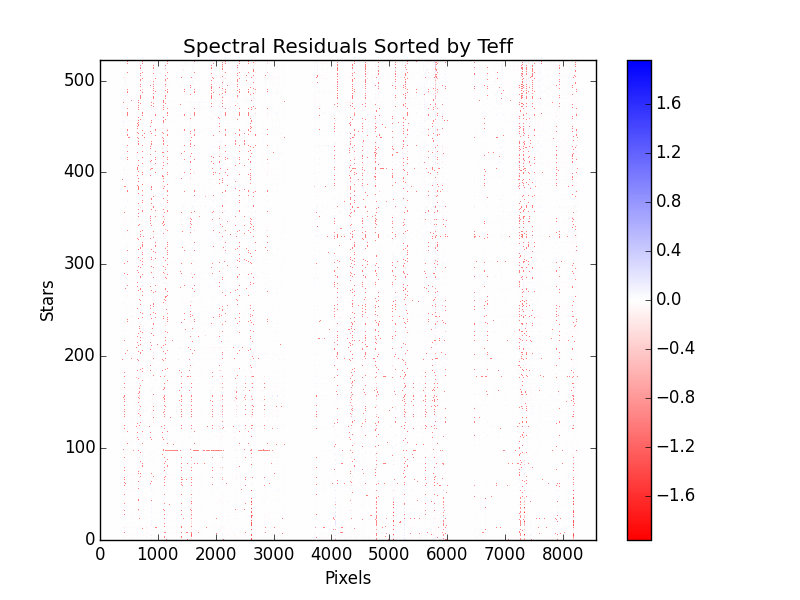
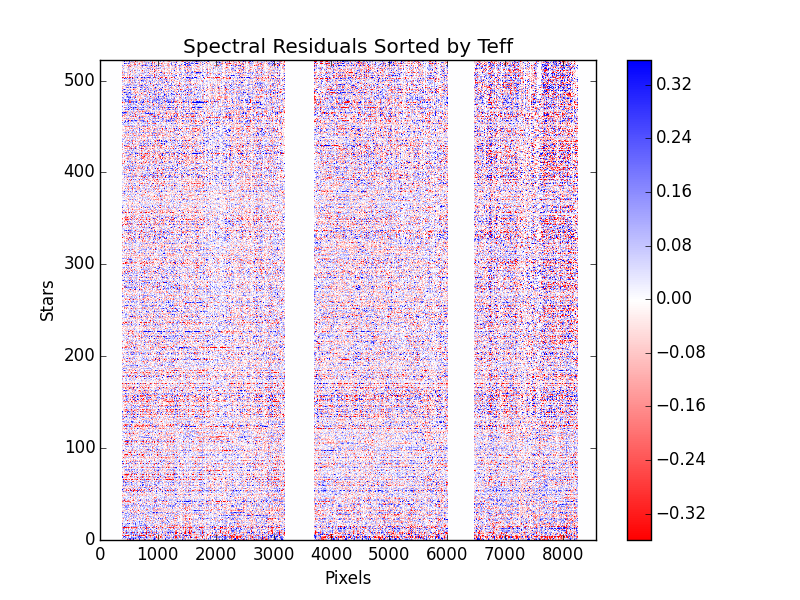
fixed residual heat map - normalized now

diff --git a/Code/Sphinx/_build/html/searchindex.js b/Code/Sphinx/_build/html/searchindex.js
@@ -1,1 +1,1 @@
-Search.setIndex({envversion:42,terms:{all:0,consider:0,spectrumfit:0,follow:0,row:0,fluxerr:[],accur:0,depend:0,under:0,sourc:[],everi:0,string:0,calib:0,govern:0,veri:[],modeltyp:[],list:0,item:[],overlaid:0,read_label:[],zero:[],append:0,spectral:[],index:[],compar:0,section:0,brief:0,version:0,method:[],gener:[],coeffici:0,len:0,let:0,along:0,valu:0,search:[],survei:0,label_v:0,precis:0,pick:[],nstar:[],dtype:0,modul:[],filenam:0,txt:0,select:0,plot:0,fed:[],from:[],describ:0,would:0,chi:0,two:0,coverag:0,few:[],call:0,type:[],more:0,sort:0,loadtxt:0,desir:0,cannon_spectra:[],apoge:[],flag:0,train:[],examin:0,particular:[],known:0,hold:0,unpack:0,must:0,none:[],retriev:0,err:[],vesta_trainingset:[],prepar:[],work:[],remain:0,can:0,objectid:[],process:0,high:0,critic:0,want:[],multipl:[],divid:[],globular:0,write:[],how:0,annaho:0,updat:0,snr:0,mai:[],varianc:[],associ:0,physic:0,spectra:[],correspond:0,element:0,inform:0,cluster_trainingset:[],first:0,ordinarili:0,help:[],over:0,through:0,flexibl:0,paramet:0,fit:[],vast:0,comprehens:0,therefor:[],might:[],pixel:0,"float":0,"return":0,initi:0,"break":0,now:0,cannonlabel:[],name:0,continuum_norm:[],each:0,found:0,subset:0,logg:0,expect:[],our:0,happen:0,extract:[],out:0,simplic:0,shown:[],space:0,open:0,content:[],label_nam:0,print:0,correct:0,workflow:[],logg_cut:0,standard:[],reason:0,put:0,her:[],keep:0,thing:0,length:[],dr10:0,outsid:0,principl:[],lambda:0,softwar:[],rang:0,render:[],onc:0,arrai:[],qualiti:0,all_label_nam:0,test_set_diagnost:[],alreadi:[],choose_label:[],label_vector:[],size:[],given:0,necessarili:[],"final":0,option:0,specifi:[],herself:[],kind:[],provid:0,remov:0,second:0,structur:0,spectralmodel:[],randomli:0,spectrum:0,packag:0,have:0,test_set:0,model_diagnost:[],also:0,exampl:0,which:0,distribut:0,normal:0,object:[],traininglabel:0,set_label_valu:[],segment:[],training_set_diagnost:[],later:[],dof:0,order:0,determin:0,sigma:0,chebyshev:0,mergeset:[],show:0,text:0,labelv:[],involv:[],onli:0,locat:0,nois:0,diff_t:0,should:0,training_set:0,tailor:[],train_model:[],him:[],requir:0,continuum:0,"public":[],bad:[],contain:0,where:0,set:[],annacannon:0,frame:[],see:0,result:[],best:[],testset:[],normalized_spectra:0,enough:0,"import":0,awai:0,approach:0,here:0,solv:0,come:[],both:0,infer_label:[],cov:0,against:0,get_spectra:[],col:0,simpli:0,overview:[],"2nd":[],residu:0,logical_and:0,suppli:[],assum:0,prep_data:[],usecol:0,dub:0,numpi:0,been:0,basic:[],apogee_data:0,photon:[],ani:0,togeth:0,trainingset:[],those:0,"case":0,ident:0,look:0,fts_trainingset:[],abov:0,readin:0,cluster:0,good:0,ascii:0,perform:0,same:0,check:0,infer:[],assembl:[],ness:0,user:0,get_training_label:[],stack:0,squar:0,entri:0,thu:0,well:0,without:0,thi:0,choos:0,model:[],left:[],abund:0,rest:[],shape:[],via:[],systemat:0,ntrainingstar:[],except:0,spread:[],all_label_valu:0,densiti:[],input:0,teff_corr:0,applic:0,format:0,read:[],npixel:0,grid:[],like:0,success:0,specif:0,flux:0,either:[],continua:0,output:0,page:[],teff:0,some:0,sampl:0,diff_t_cut:0,home:0,constitut:0,cannon_set:0,lead:0,fidel:0,colmask:[],cannon_label:[],notabl:[],refer:[],run:0,usag:0,step:[],impos:0,numtrainingstar:[],incorpor:0,column:0,filenames1:0,cutoff:0,own:[],choose_spectra:[],within:[],dataset:[],merg:[],accordingli:[],triangl:0,mcm_rotat:[],wai:[],transfer:0,reli:[],includ:0,"function":0,form:0,hereaft:[],histogram:0,labelnam:[],line:[],"true":0,info:0,consist:0,read_apoge:[],whether:0,below:0,fundament:0,otherwis:0,similar:[],featur:[],creat:[],smoothli:0,diagnost:[],deem:0,exist:[],file:[],wavelength:0,label_valu:[],probabl:[],spectral_model:[],allow:0,detail:0,aspcap:[],other:0,bool:[],nlabel:0,test:[],you:[],baselin:0,draw:0,star:0,"0th":0,ndarrai:[],polynomi:0,gap:[],reduc:0,directori:0,mask:0},objtypes:{},objnames:{},filenames:["index"],titles:["<em>The Cannon</em>: Data-Driven Stellar Labels"],objects:{},titleterms:{softwar:0,thecannon:[],creat:0,draw_spectra:0,api:[],overview:0,indic:[],dataset:0,test_set_diagnost:0,read_apoge:[],set:0,choose_label:0,file:0,tabl:[],prepdata:[],from:0,welcom:[],fit:0,data:0,choose_spectra:0,model_diagnost:0,construct:0,label:0,start:[],read_label:[],test:0,document:[],infer:0,refer:[],get:[],cannon_spectra:[],cannon:0,gener:[],object:0,apoge:0,stellar:0,step:0,train:0,train_model:0,infer_label:0,cannon2_infer_label:[],get_training_label:0,introduct:0,driven:0,training_set_diagnost:0,word:[],diagnost:0,read:0,prepar:[],spectra:0,method:[],get_spectra:0,tailor:0,cannon1_train_model:[],model:0}})
+Search.setIndex({envversion:42,terms:{all:0,consider:0,spectrumfit:0,follow:0,row:0,fluxerr:[],accur:0,depend:0,under:0,sourc:[],everi:0,string:0,calib:0,govern:0,veri:[],vast:0,list:0,item:[],overlaid:0,read_label:[],zero:[],append:0,spectral:[],index:[],compar:0,section:0,brief:0,version:0,"public":[],gener:[],coeffici:0,len:0,let:0,along:0,valu:0,search:[],survei:0,label_v:0,precis:0,pick:[],via:[],dtype:0,modul:[],filenam:0,txt:0,select:0,plot:0,fed:[],from:[],describ:0,would:0,chi:0,two:0,coverag:0,few:[],call:0,type:[],more:0,sort:0,loadtxt:0,desir:0,cannon_spectra:[],apoge:[],flag:0,train:[],examin:0,particular:[],known:0,hold:0,unpack:0,must:0,none:[],retriev:0,err:[],vesta_trainingset:[],prepar:[],work:[],remain:0,can:0,objectid:[],process:0,high:0,critic:0,want:[],multipl:[],divid:[],globular:0,write:[],how:0,annaho:0,updat:0,snr:0,mai:[],varianc:[],associ:0,physic:0,spectra:[],correspond:0,element:0,inform:0,incorpor:0,lambda:0,order:0,help:[],over:0,through:0,flexibl:0,paramet:0,fit:[],modeltyp:[],comprehens:0,therefor:[],might:[],pixel:0,"float":0,"return":0,initi:0,"break":0,now:0,cannonlabel:[],name:0,continuum_norm:[],each:0,found:0,subset:0,logg:0,expect:[],our:0,happen:0,extract:[],out:0,shown:[],space:0,open:0,content:[],label_nam:0,print:0,correct:0,workflow:[],logg_cut:0,standard:[],reason:0,put:0,her:[],keep:0,thing:0,length:[],dr10:0,outsid:0,principl:[],first:0,softwar:[],rang:0,render:[],onc:0,arrai:[],qualiti:0,all_label_nam:0,test_set_diagnost:[],alreadi:[],choose_label:[],label_vector:[],size:[],given:0,necessarili:[],"final":0,option:0,specifi:[],herself:[],kind:[],provid:0,remov:0,second:0,structur:0,spectralmodel:[],randomli:0,spectrum:0,packag:0,have:0,test_set:0,model_diagnost:[],also:0,exampl:0,which:0,distribut:0,fidel:0,object:[],traininglabel:0,set_label_valu:[],segment:[],hereaft:[],later:[],dof:0,ordinarili:0,determin:0,sigma:0,chebyshev:0,mergeset:[],show:0,text:0,labelv:[],involv:[],onli:0,locat:0,nois:0,diff_t:0,should:0,training_set:0,tailor:[],train_model:[],him:[],requir:0,continuum:0,method:[],bad:[],contain:0,where:0,set:[],annacannon:0,frame:[],see:0,result:[],best:[],training_set_diagnost:[],testset:[],normalized_spectra:0,cluster_trainingset:[],enough:0,"import":0,awai:0,approach:0,here:0,otherwis:0,solv:0,come:[],both:0,infer_label:[],cov:0,against:0,get_spectra:[],col:0,simpli:0,overview:[],"2nd":[],residu:0,suppli:[],assum:0,prep_data:[],usecol:0,dub:0,numpi:0,been:0,basic:[],apogee_data:0,photon:[],ani:0,togeth:0,trainingset:[],those:0,"case":0,ident:0,look:0,fts_trainingset:[],abov:0,readin:0,cluster:0,good:0,ascii:0,perform:0,same:0,label_valu:[],infer:[],spectral_model:[],ness:0,user:0,get_training_label:[],stack:0,squar:0,entri:0,thu:0,well:0,without:0,thi:0,choos:0,model:[],left:[],abund:0,rest:[],shape:[],nstar:[],systemat:0,ntrainingstar:[],except:0,spread:[],all_label_valu:0,densiti:[],input:0,teff_corr:0,applic:0,format:0,read:[],npixel:0,grid:[],like:0,specif:0,success:0,flux:0,either:[],continua:0,output:0,page:[],teff:0,some:0,sampl:0,diff_t_cut:0,home:0,constitut:0,cannon_set:0,lead:0,normal:0,colmask:[],cannon_label:[],notabl:[],refer:[],run:0,usag:0,step:[],impos:0,numtrainingstar:[],column:0,filenames1:0,cutoff:0,own:[],choose_spectra:[],within:[],dataset:[],merg:[],accordingli:[],triangl:0,mcm_rotat:[],wai:[],transfer:0,reli:[],includ:0,"function":0,form:0,simplic:0,histogram:0,labelnam:[],line:[],"true":0,info:0,consist:0,read_apoge:[],whether:0,below:0,fundament:0,logical_and:0,similar:[],featur:[],creat:[],smoothli:0,diagnost:[],deem:0,exist:[],file:[],wavelength:0,check:0,probabl:[],assembl:[],allow:0,detail:0,aspcap:[],other:0,bool:[],nlabel:0,test:[],you:[],baselin:0,draw:0,star:0,"0th":0,ndarrai:[],polynomi:0,gap:[],reduc:0,directori:0,mask:0},objtypes:{},objnames:{},filenames:["index"],titles:["<em>The Cannon</em>: Data-Driven Stellar Labels"],objects:{},titleterms:{softwar:0,thecannon:[],creat:0,draw_spectra:0,overview:0,train:0,indic:[],dataset:0,test_set_diagnost:0,read_apoge:[],set:0,choose_label:0,file:0,tabl:[],prepdata:[],from:0,welcom:[],fit:0,get_training_label:0,choose_spectra:0,model_diagnost:0,construct:0,label:0,start:[],read_label:[],test:0,document:[],infer:0,refer:[],get:[],cannon_spectra:[],cannon:0,gener:[],object:0,apoge:0,stellar:0,step:0,tailor:0,train_model:0,word:[],cannon2_infer_label:[],data:0,introduct:0,driven:0,training_set_diagnost:0,infer_label:0,diagnost:0,read:0,prepar:[],spectra:0,method:[],get_spectra:0,api:[],cannon1_train_model:[],model:0}})

diff --git a/Code/Version1.1/cannon_spectra.py b/Code/Version1.1/cannon_spectra.py
@@ -93,10 +93,12 @@ def residuals(cannon_set, test_set, model):
         label_name = cannon_set.label_names[i]
         print "Plotting residuals sorted by %s" %label_name
         label_vals = cannon_set.label_vals[:,i]
-        sorted_res = res[np.argsort(label_vals)]
-        lim = np.maximum(np.abs(sorted_res.max()), np.abs(sorted_res.min()))
+        sorted_res = res_norm[np.argsort(label_vals)]
+        mu = np.mean(sorted_res)
+        sigma = np.std(sorted_res)
+        #lim = np.maximum(np.abs(sorted_res.max()), np.abs(sorted_res.min()))
         plt.imshow(sorted_res, cmap=plt.cm.bwr_r,
-                interpolation="nearest", vmin=-1*lim, vmax=lim,
+                interpolation="nearest", vmin=mu-3*sigma, vmax=mu+3*sigma,
                 aspect='auto',origin='lower')
         plt.title("Spectral Residuals Sorted by %s" %label_name)
         plt.xlabel("Pixels")
@@ -106,4 +108,5 @@ def residuals(cannon_set, test_set, model):
         plt.savefig(filename)
         print "File saved as %s" %filename
         plt.close()
-
+    #for i in range(res.shape(0)):
+    #    res_spec = res[i,:]

diff --git a/Code/Version1.2/read_apogee.py b/Code/Version1.2/read_apogee.py
@@ -43,11 +43,12 @@ def get_spectra(files):
     print "Loaded %s stellar spectra" %nstars
    
     # Deal with bad pixels
-    for jj in range(nstars):
-        bad1 = np.logical_or(np.isinf(spectra[jj,:,0]), 
-                np.isinf(spectra[jj,:,1]))
-        bad = np.logical_or(bad1, spectra[jj,:,1] <= 0)
-        print sum(bad)
+ indx= (((data['APOGEE_TARGET1'] & 2**11) != 0)+((data['APOGEE_TARGET1'] & 2**12) != 0)+((data['APOGEE_TARGET1'] & 2**13) != 0))\
+         *((data['APOGEE_TARGET1'] & 2**7) == 0)\
+         *((data['APOGEE_TARGET1'] & 2**8) == 0)\
+         *((data['APOGEE_TARGET2'] & 2**9) == 0)
+         #*((data['APOGEE_TARGET1'] & 2**17) == 0)\
+                 return indx
 
     # Continuum normalize
     contpix = identify_continuum(lambdas, spectra)
